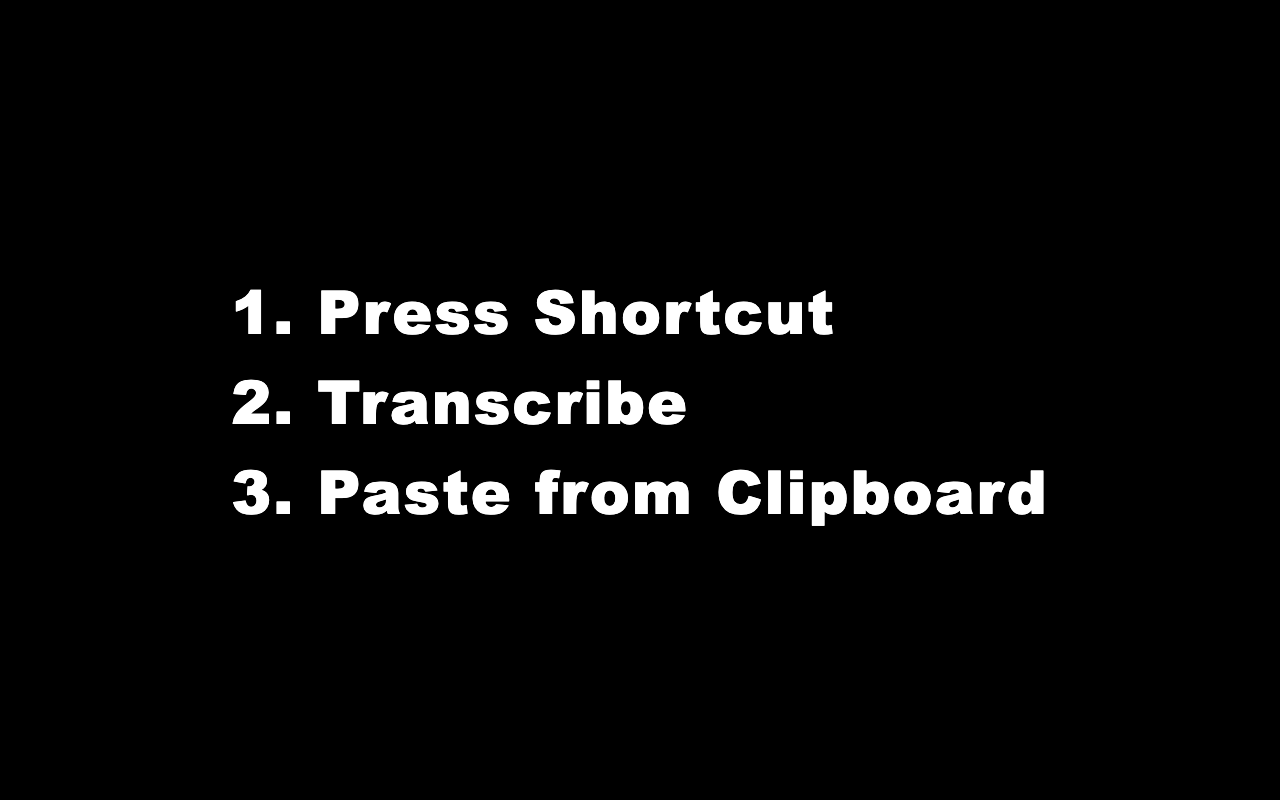
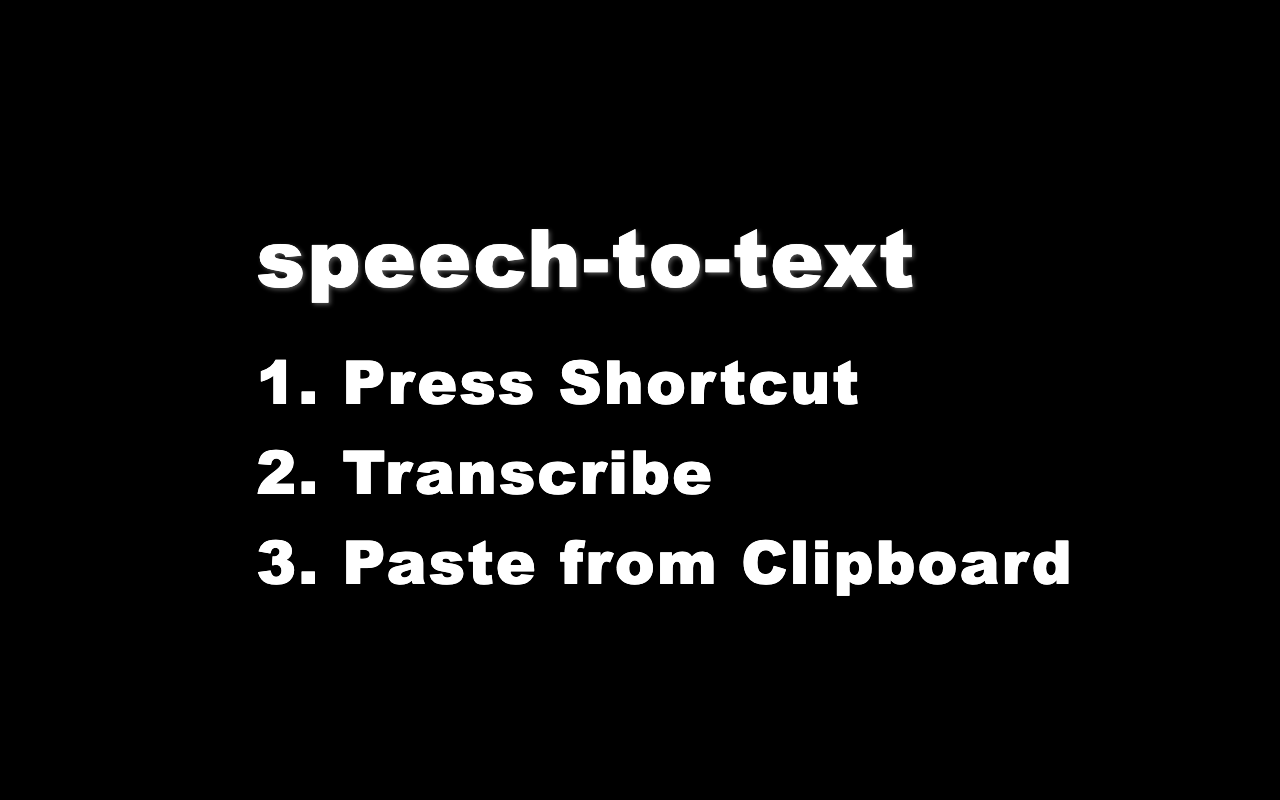
Update screenshot.

Changed region(s): [[0.1875, 0.2812, 0.7188, 0.5312], [0.1875, 0.5625, 0.8438, 0.75]]

diff --git a/screenshots/index.html b/screenshots/index.html
@@ -24,15 +24,34 @@
             font-weight: bold;
             letter-spacing: 2px;
             line-height: 1.5;
+            text-align: center;
+        }
+
+        .heading {
+            font-size: 80px;
+            margin-bottom: 20px;
+            text-shadow: 2px 2px 4px rgba(255, 255, 255, 0.3);
+            color: #ffffff;
+            text-align: left;
+            margin-left: 50px;
+        }
+
+        .content {
+            font-size: 60px;
+            text-align: left;
+            margin-left: 50px;
         }
     </style>
 </head>
 
 <body>
     <div>
-        1. Press Shortcut<br>
-        2. Transcribe<br>
-        3. Paste from Clipboard
+        <div class="heading">speech-to-text</div>
+        <div class="content">
+            1. Press Shortcut<br>
+            2. Transcribe<br>
+            3. Paste from Clipboard
+        </div>
     </div>
 </body>
 
